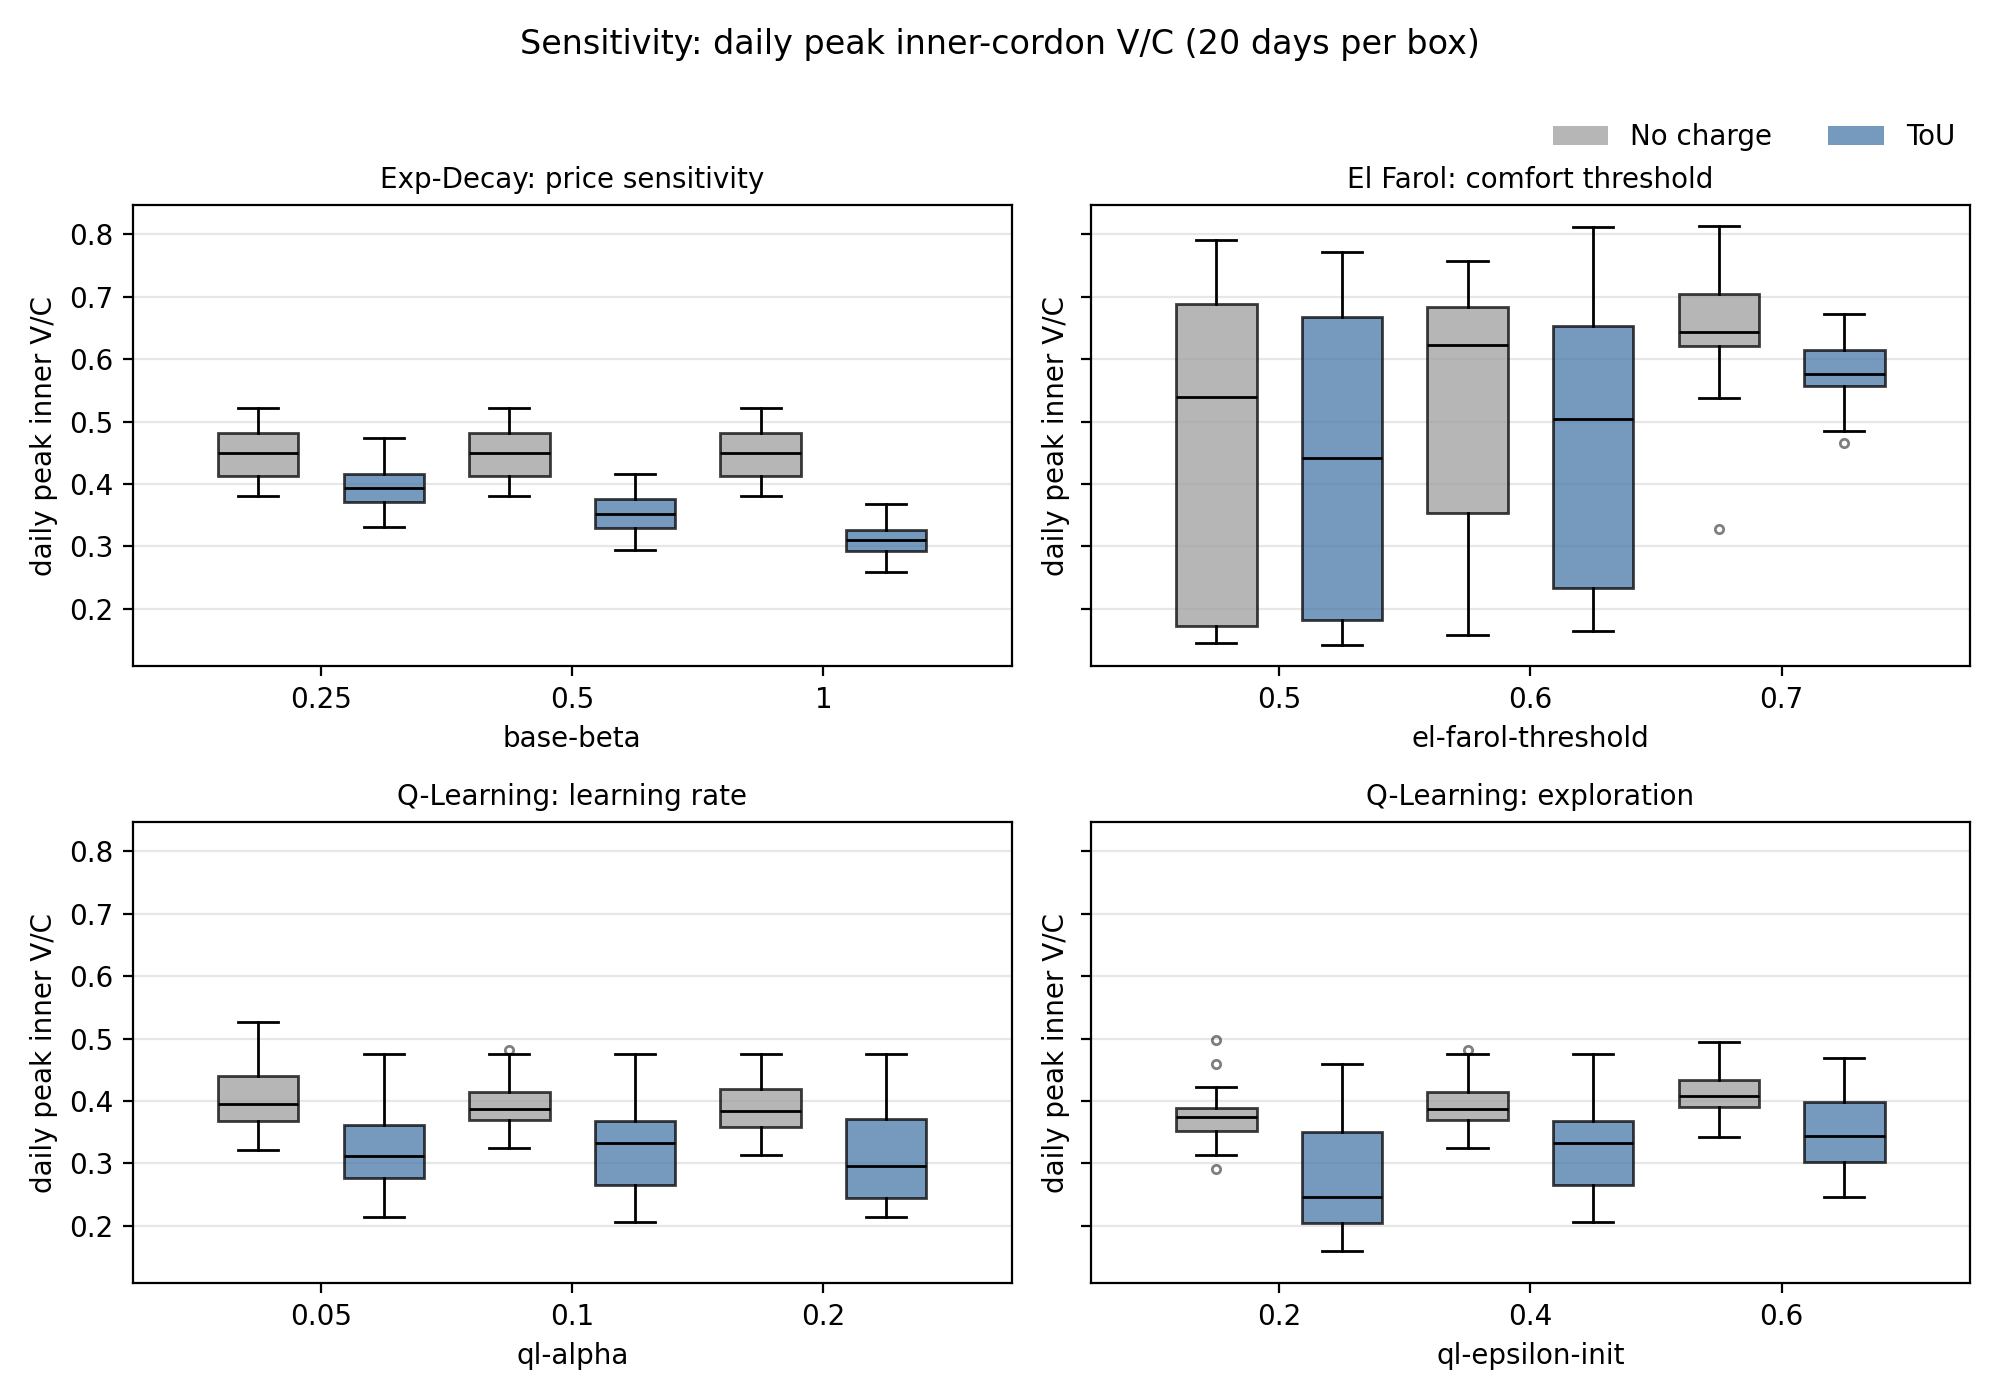
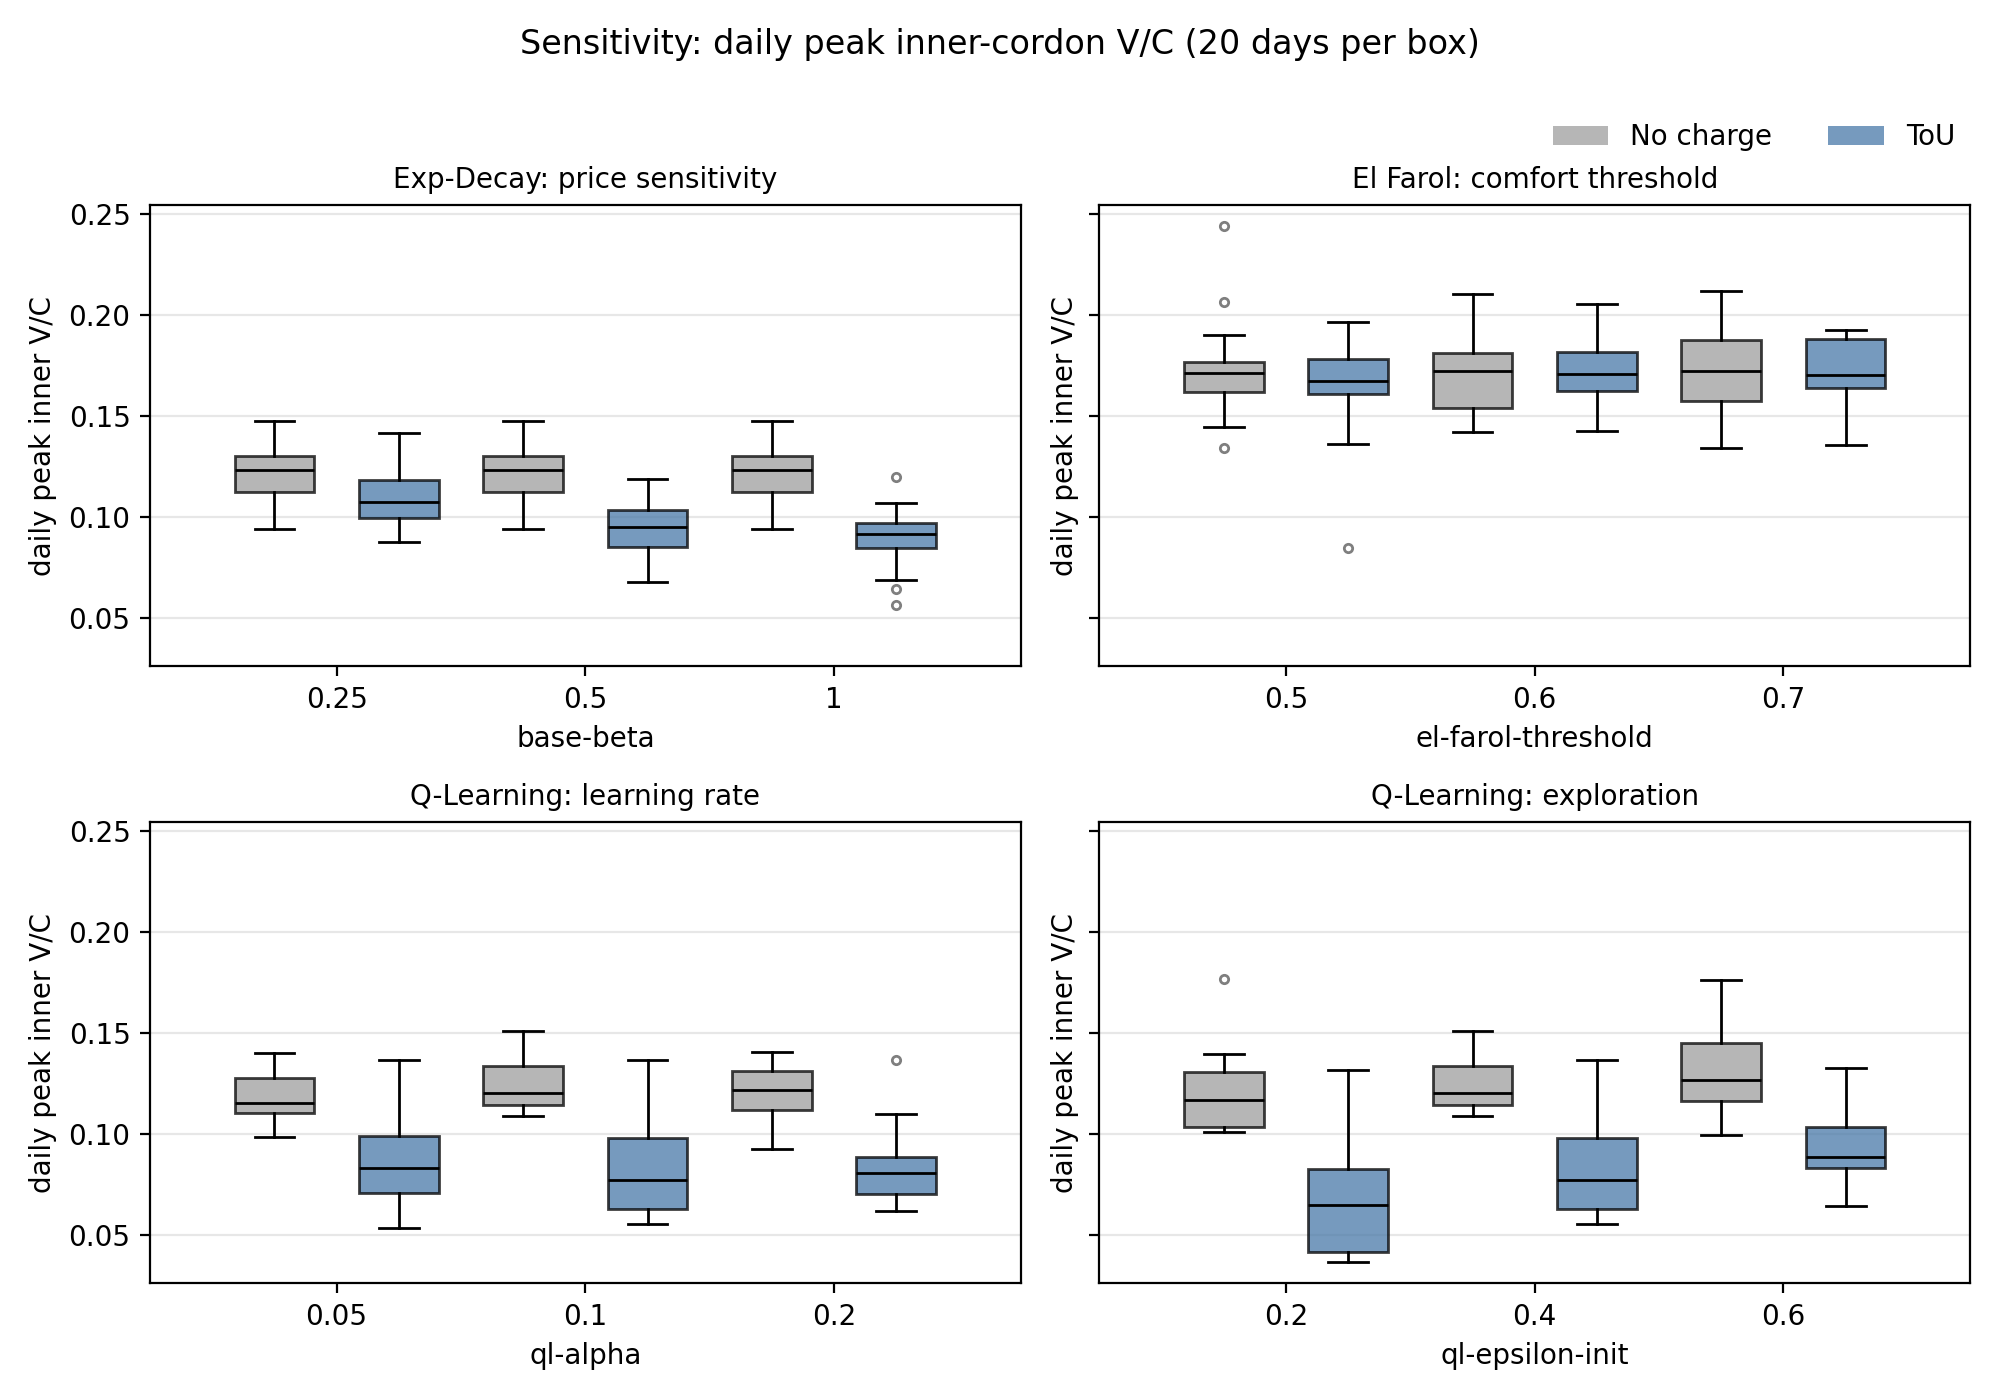
Regenerate sensitivity figures/summary and update docs for calibrated model
- Regenerate all four figures and sensitivity_summary.txt from the calibrated
  (sf160 + suburban) CSVs pushed from Windows in edc7fce; the Windows run
  produced tables but not PNGs (no matplotlib there)
- LOS_IMPLEMENTATION.md: replace sf300 k-factor and behavioural tables with
  calibrated numbers; mark suite re-run DONE
- Document El Farol qualitative change: sf300 alternate-day oscillation (and
  apparent ToU damping) is gone on the calibrated model, ToU effect ~0 —
  treat the earlier reliability-benefit story as an artifact pending a
  multi-seed check; ToU effect holds for k-factor, Exp-Decay, Q-Learning

diff --git a/netlogo/LOS_IMPLEMENTATION.md b/netlogo/LOS_IMPLEMENTATION.md
@@ -73,41 +73,54 @@ runner scripts, and the model's embedded BehaviorSpace list):
 k ∈ {0.08, 0.10, 0.12} × fee ∈ {No-Charge, tou}, Exp-Decay, 20 days,
 recording the four daily-peak group E/F metrics.
 
-Results (mean ± SD over 20 days, daily-peak % of traffic at LoS E/F):
+Results on the **calibrated model** (sf 160 + suburban destinations; full
+suite re-run on Windows, completed 2026-07-25), mean ± SD over 20 days,
+daily-peak % of traffic at LoS E/F:
 
 | k | fee | MWY | CBD | East | West |
 |---|---|---|---|---|---|
-| 0.08 | No-Charge | 97.4±0.2 | 98.6±0.3 | 97.4±0.3 | 89.4±2.0 |
-| 0.08 | tou | 96.9±0.3 | 97.6±0.6 | 96.2±0.5 | 87.3±2.0 |
-| 0.10 | No-Charge | 96.3±0.3 | 97.8±0.4 | 96.1±0.6 | 86.1±2.8 |
-| 0.10 | tou | 95.3±0.5 | 96.2±0.7 | 94.2±1.2 | 82.2±1.9 |
-| 0.12 | No-Charge | 94.7±0.5 | 96.8±0.5 | 94.7±0.8 | 82.0±2.5 |
-| 0.12 | tou | 93.3±0.6 | 94.3±1.4 | 91.7±1.3 | 76.9±2.1 |
+| 0.08 | No-Charge | 94.5±0.6 | 91.5±1.5 | 90.6±0.9 | 85.9±0.9 |
+| 0.08 | tou | 93.8±0.7 | 88.3±2.3 | 88.7±1.0 | 84.9±1.2 |
+| 0.10 | No-Charge | 91.9±0.6 | 86.9±1.9 | 87.1±1.1 | 83.0±1.1 |
+| 0.10 | tou | 90.8±1.2 | 82.1±2.7 | 84.9±1.5 | 81.8±1.2 |
+| 0.12 | No-Charge | 87.1±2.3 | 82.0±1.7 | 84.1±1.0 | 80.5±1.6 |
+| 0.12 | tou | 83.6±2.3 | 77.5±2.5 | 81.0±2.2 | 78.6±1.9 |
 
-**Headline: at every k and in every group, ToU lowers the LoS E/F share — the
-LoS-improvement conclusion is robust to the capacity assumption.** The effect
-is largest for Arterial West (78.1→73.2 pp at k = 0.12 in the earlier
-mean-only table; boxes barely overlap in the boxplot).
+**Headline holds after calibration: at every k and in every group, ToU lowers
+the LoS E/F share — the LoS-improvement conclusion is robust to the capacity
+assumption.** The ToU gap is largest for CBD (≈3–5 pp) and smallest for
+Arterial West (≈1 pp). Absolute E/F levels are ~5–10 pp lower than the
+pre-calibration (sf 300) tables, but still high because of the temporal
+residual (implied k = 0.157; see Demand calibration below).
 
-## Behavioural sensitivity (re-run, day-0 bug fixed)
+## Behavioural sensitivity (calibrated model, 2026-07-25)
 
-ToU reduction in 20-day mean of daily peak inner-cordon V/C:
+ToU reduction in 20-day mean of daily peak inner-cordon V/C. Calibration
+lowered the No-Charge baseline from ~0.45 to ~0.12, so these are proportional
+reductions off a much lower congestion level:
 
-- Exp-Decay base-beta 0.25 / 0.5 / 1.0 → 11.5% / 21.3% / 30.5% (monotone in
-  price sensitivity; No-Charge baseline identical across beta by construction).
-- El Farol threshold 0.5 / 0.6 / 0.7 → 1.2% / 7.8% / 11.1%, with large
-  day-to-day SD (0.245 at 0.5).
-- Q-Learning alpha 0.05 / 0.1 / 0.2 → 20.3% / 17.9% / 19.4% (insensitive).
-- Q-Learning epsilon 0.2 / 0.4 / 0.6 → 26.4% / 17.9% / 15.3% (more
-  exploration, less effect).
+- Exp-Decay base-beta 0.25 / 0.5 / 1.0 → 9.5% / 21.3% / 25.9% (still monotone
+  in price sensitivity; No-Charge baseline identical across beta by
+  construction).
+- El Farol threshold 0.5 / 0.6 / 0.7 → 3.7% / **−1.1%** / 0.7% — essentially
+  no effect, and day-to-day SD collapsed to ~0.02 (was 0.245 at sf 300).
+- Q-Learning alpha 0.05 / 0.1 / 0.2 → 27.4% / 32.2% / 30.5% (stronger than at
+  sf 300; insensitive to alpha).
+- Q-Learning epsilon 0.2 / 0.4 / 0.6 → 42.7% / 32.2% / 27.9% (stronger; still
+  decreasing with more exploration).
 
-The El Farol time series shows the boxplot spread is endogenous oscillation,
-not noise: at threshold 0.5 near-perfect alternate-day cycling
-(V/C 0.15 ↔ 0.7) that ToU barely dents; at threshold 0.7 No-Charge keeps
-oscillating widely while **ToU visibly damps the amplitude** (≈0.5–0.65 band).
-Under El Farol, pricing acts less by lowering the mean than by damping
-collective over-correction — a day-to-day reliability benefit. (Single seed;
-needs a multi-seed replication before claiming it in the paper.)
+**El Farol changed qualitatively under calibration — treat the earlier
+"pricing damps oscillation" story as an artifact.** At sf 300 the El Farol
+rule produced near-perfect alternate-day V/C cycling (0.15 ↔ 0.7) that ToU
+appeared to damp. On the calibrated model that oscillation is gone (daily peak
+sits in a narrow 0.13–0.21 band, No-Charge and ToU nearly overlapping, see
+`sensitivity_elfarol_timeseries.png`), and the ToU effect is ~0. The
+oscillation was driven by the over-loaded uncalibrated network, not by the
+attendance game itself; with realistic demand there is little collective
+congestion swing for pricing to act on. The reliability-benefit claim should
+not be made from this rule without, at minimum, a multi-seed replication.
+Exp-Decay and Q-Learning, by contrast, keep a clear positive ToU effect after
+calibration.
 
 ## Figures and tables
 
@@ -117,10 +130,12 @@ needs a multi-seed replication before claiming it in the paper.)
 - `output/figures/sensitivity_reduction.png` — ToU reduction (%) vs parameter.
 - `output/figures/sensitivity_elfarol_timeseries.png` — El Farol daily series.
 - `output/tables/sensitivity-*.csv` — raw BehaviorSpace tables (6 runs × 20
-  days each); `sensitivity_summary.txt` — aggregated means/SDs.
+  days each), calibrated model, 2026-07-25; `sensitivity_summary.txt` —
+  aggregated means/SDs.
 
-Regenerate with `python3 aggregate_sensitivity.py` and
-`python3 plot_sensitivity.py` in `sensitivity_experiment/`.
+All figures and the summary are regenerated from the CSVs with
+`python3 aggregate_sensitivity.py` and `python3 plot_sensitivity.py` in
+`sensitivity_experiment/` (needs `matplotlib` for the plots).
 
 ## Fixes made along the way
 
@@ -216,24 +231,24 @@ defensible headline, not the absolute E/F level.
   ToU−NoCharge difference or the AM-peak metric, not absolute daily-peak E/F.
 - Spatial calibration is aggregate-good but not exact (East ~1.2×, MWY ~0.8×);
   closing this needs observed trip-end/OD data beyond link ADT.
-- **Sensitivity suite re-run is pending (blocked on runtime, not correctness).**
-  The earlier tables were at sf = 300; the calibrated model is sf 160 + suburban
-  destinations. Only `sensitivity-pay` has been re-run on the calibrated model
-  so far (`output/tables/sensitivity-pay.csv`, 2026-07-23 02:53); `-elfarol`,
-  `-ql-alpha`, `-ql-epsilon`, `-kfactor` are still the sf = 300 tables and must
-  not be quoted together with the pay table until re-run.
-  Performance diagnosis (measured on the 8 GB dev machine): the calibrated
-  model costs **~195 s per simulated day** — suburban destinations lengthen
-  trips, so vehicles spend more ticks on-road; setup and the destination scan
-  are negligible by comparison. One 20-day run ≈ 65 min. Worse, BehaviorSpace
-  runs an experiment's 6 runs concurrently in a single JVM heap capped at 50 %
-  of 8 GB (≈4 GB); with 2500 vehicles + 3245 buildings + a scattered-OD path
-  cache per run, the heap thrashes GC and an experiment takes ~4.5 h instead of
-  the ~65 min ideal. To finish overnight, **cap concurrency to `--threads 3`**
-  (≈2.2 h/experiment, ~11 h for all five) or additionally cut `n-sim-days` to
-  ~12. The ToU-improves-LoS direction is expected to hold (k-factor showed
-  robustness to a ±20 % capacity shift; calibration is a demand shift of similar
-  order), but the numbers will change — replace all five tables once re-run.
+- **Sensitivity suite re-run is DONE (2026-07-25).** All five experiments
+  were re-run on the calibrated model (sf 160 + suburban destinations) on a
+  Windows machine and pushed (commit `edc7fce`); the tables above and the
+  figures now reflect the calibrated model. The ToU-improves-LoS direction
+  held for k-factor, Exp-Decay and Q-Learning; El Farol's effect collapsed
+  to ~0 (see the behavioural section). The Windows run took ~14 h wall-clock
+  at `--threads 3` (each simulated day ≈ 195 s; suburban destinations lengthen
+  trips so vehicles spend more ticks on-road). For future re-runs the plotting
+  step needs `matplotlib` on the run host, or regenerate figures elsewhere with
+  `python3 plot_sensitivity.py` — the Windows run produced the tables and the
+  summary but not the PNGs (matplotlib absent), which were regenerated on the
+  Mac.
+- **El Farol needs a multi-seed check before any claim.** The qualitative
+  change between sf 300 (wild oscillation, apparent ToU damping) and the
+  calibrated model (no oscillation, ~0 ToU effect) rests on single-seed runs
+  (repetitions = 1). Replicate El Farol with 3–5 seeds to confirm the
+  oscillation really is demand-driven and not seed-specific. The other rules'
+  positive ToU effect is large enough to be less seed-fragile, but multi-seed
+  error bars would strengthen all of them.
 - Sensitivity runs are single-seed (repetitions = 1): boxes show day-to-day
-  variation within one seed. Replicate with 3–5 seeds for real error bars,
-  especially for the El Farol damping claim.
+  variation within one seed, not run-to-run uncertainty.
